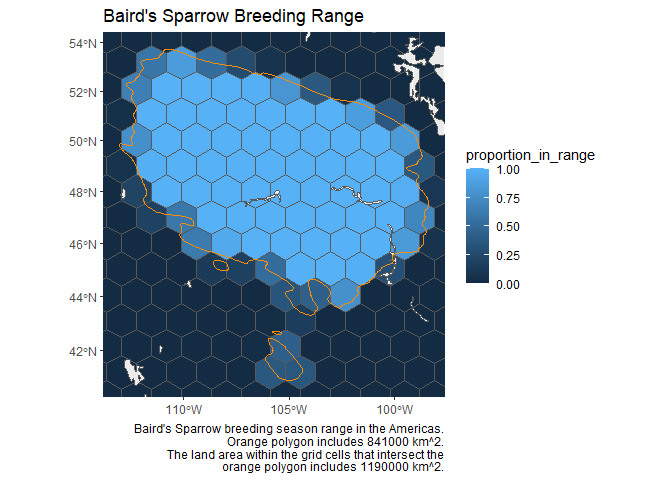
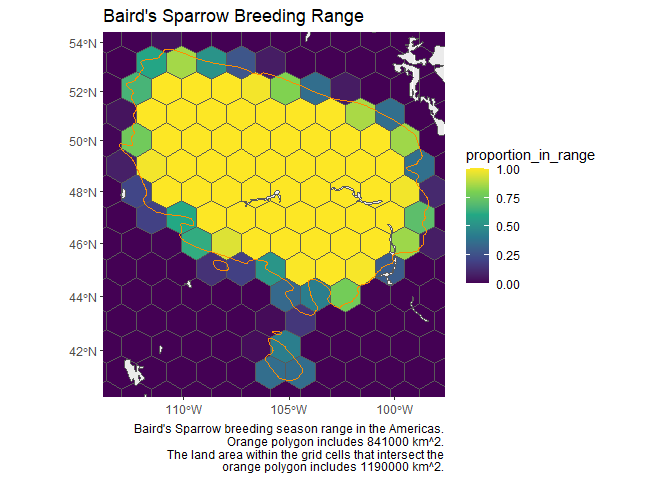
and more readme

diff --git a/README.md b/README.md
@@ -73,7 +73,7 @@ The package consists of three primary functions:
     data.
 
 3.  `regional_summary()` - conducts a spatial join of a regional map
-    with the coverage maps from `overlay_range_data()` to summarise
+    with the coverage maps from the previous function, to summarise
     coverage within those regions.
 
 ## Example
@@ -153,6 +153,7 @@ map <- ggplot()+
           fill = NA)+
   coord_sf(xlim = focus[c("xmin","xmax")],
            ylim = focus[c("ymin","ymax")])+
+  scale_fill_viridis_c()+
   labs(title = paste(example_species,"Breeding Range"),
        caption = paste(example_species,"breeding season range in the Americas.
                        Orange polygon includes",signif(range_info[["range_area"]],3),
